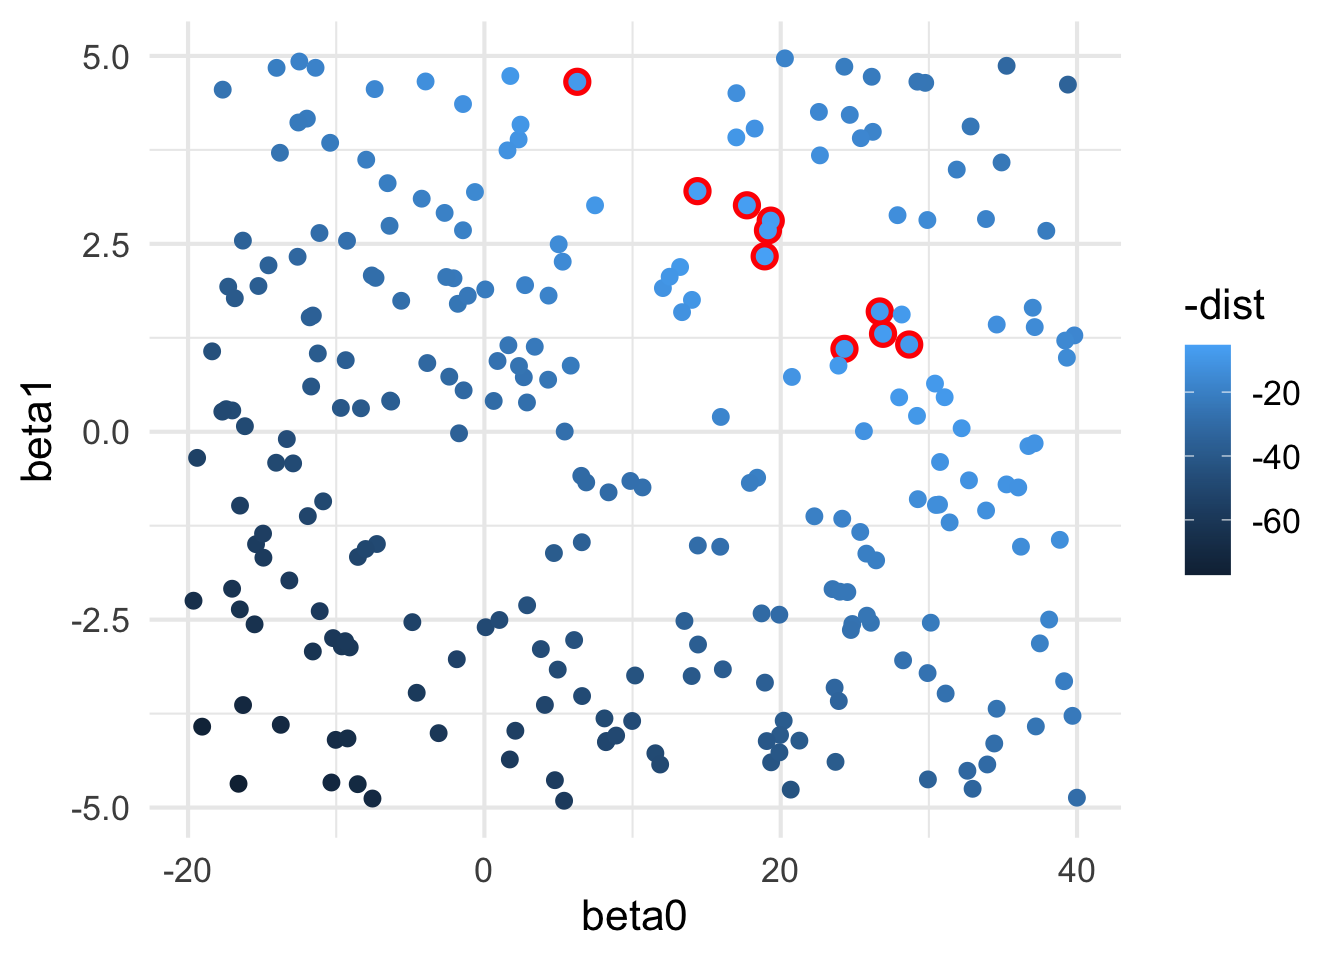
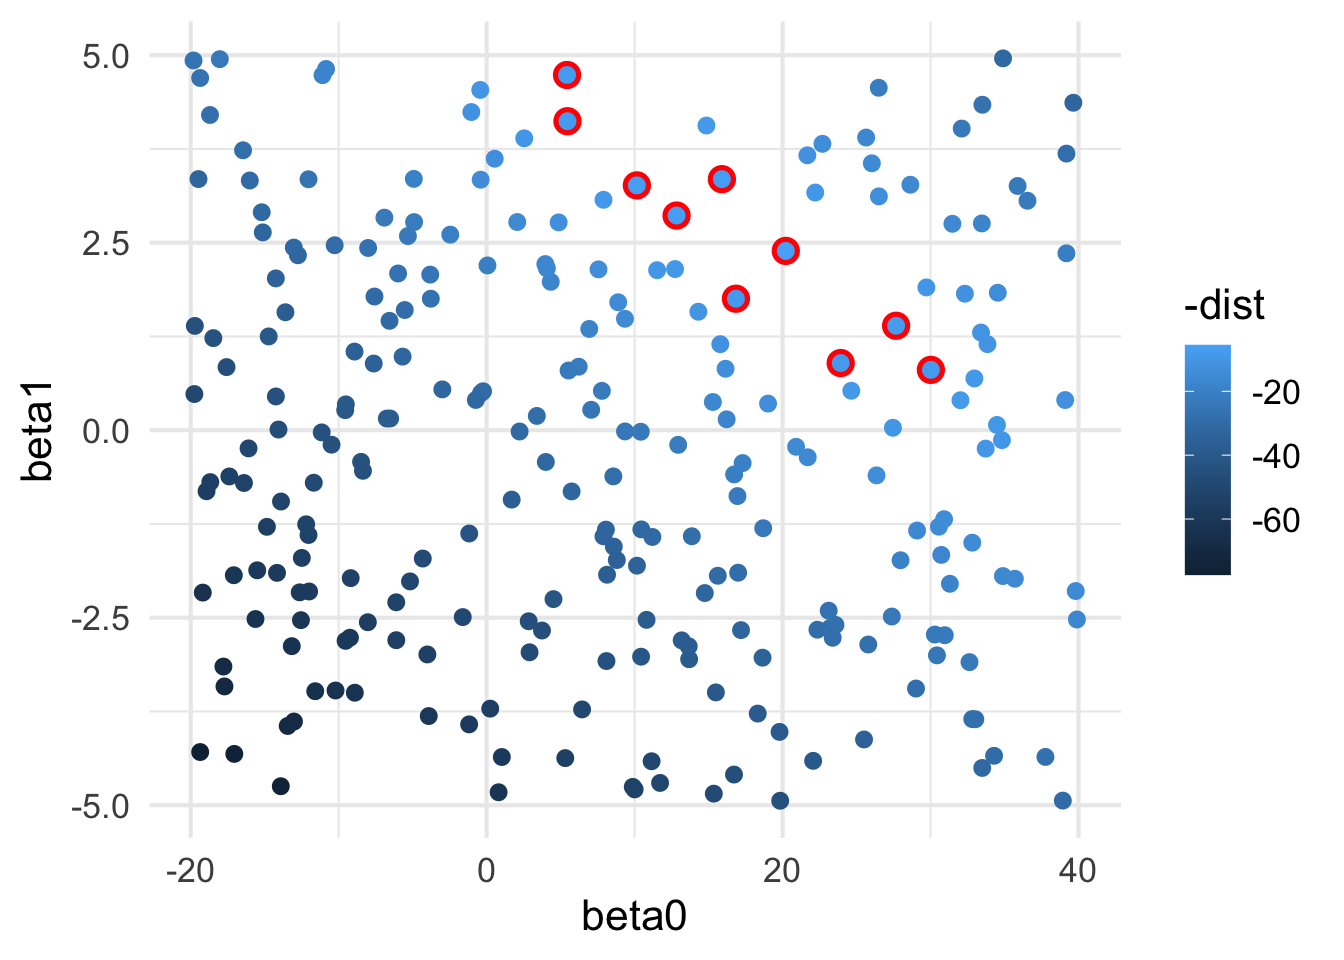
built for latest content

diff --git a/docs/narrative.html b/docs/narrative.html
@@ -183,12 +183,12 @@ y_{ij} = \beta_0 + \beta_1 x_{i} + \epsilon_j
 <span id="cb3-3"><a href="#cb3-3" aria-hidden="true" tabindex="-1"></a><span class="fu">summary</span>( models )</span></code></pre></div><button title="Copy to Clipboard" class="code-copy-button"><i class="bi"></i></button></div>
 <div class="cell-output cell-output-stdout">
 <pre><code>     beta0             beta1        
- Min.   :-19.632   Min.   :-4.9090  
- 1st Qu.: -7.390   1st Qu.:-2.6282  
- Median :  7.787   Median :-0.1255  
- Mean   :  9.506   Mean   :-0.1893  
- 3rd Qu.: 25.397   3rd Qu.: 2.0458  
- Max.   : 39.990   Max.   : 4.9674  </code></pre>
+ Min.   :-19.810   Min.   :-4.9405  
+ 1st Qu.: -8.454   1st Qu.:-2.5273  
+ Median :  7.313   Median :-0.2439  
+ Mean   :  7.525   Mean   :-0.2425  
+ 3rd Qu.: 22.319   3rd Qu.: 2.0126  
+ Max.   : 39.891   Max.   : 4.9577  </code></pre>
 </div>
 </div>
 <p>We can plot these and the original data and all these randomly defined models.</p>
@@ -239,13 +239,13 @@ y_{ij} = \beta_0 + \beta_1 x_{i} + \epsilon_j
 <span id="cb7-7"><a href="#cb7-7" aria-hidden="true" tabindex="-1"></a>}</span>
 <span id="cb7-8"><a href="#cb7-8" aria-hidden="true" tabindex="-1"></a><span class="fu">head</span>( models )</span></code></pre></div><button title="Copy to Clipboard" class="code-copy-button"><i class="bi"></i></button></div>
 <div class="cell-output cell-output-stdout">
-<pre><code>        beta0      beta1      dist
-1  15.9563821  0.1970038 17.076792
-2  26.2156889  3.9900951 17.695627
-3  14.3826825  3.2011704  5.501376
-4  29.2525639 -0.8971011 13.587113
-5   0.8865457  0.9412975 26.629027
-6 -17.2903396  1.9302836 38.801127</code></pre>
+<pre><code>      beta0       beta1      dist
+1 -16.09063 -0.24246791 50.104561
+2 -11.14741 -0.02929899 44.012023
+3 -15.50407 -1.86794924 59.161027
+4  30.96283 -2.73346555 22.665939
+5  33.02548 -3.85426219 27.741279
+6  27.45738  0.03260307  9.979749</code></pre>
 </div>
 </div>
 <p>If we look through these models, we can see which are better than others by sorting in increasing squared distance.</p>
@@ -862,42 +862,42 @@ y = \beta_0 + \beta_1 x_1 + \beta_2 x_2 + \beta_3 x_3 + \epsilon
 </tr>
 <tr class="even">
 <td style="text-align: left;">Ozone ~ Temp + Wind + Solar + 1 Random Variables</td>
-<td style="text-align: right;">0.6066</td>
+<td style="text-align: right;">0.6143</td>
 <td style="text-align: right;">0e+00</td>
 </tr>
 <tr class="odd">
 <td style="text-align: left;">Ozone ~ Temp + Wind + Solar + 2 Random Variables</td>
-<td style="text-align: right;">0.6066</td>
+<td style="text-align: right;">0.6153</td>
 <td style="text-align: right;">0e+00</td>
 </tr>
 <tr class="even">
 <td style="text-align: left;">Ozone ~ Temp + Wind + Solar + 3 Random Variables</td>
-<td style="text-align: right;">0.6131</td>
+<td style="text-align: right;">0.6250</td>
 <td style="text-align: right;">0e+00</td>
 </tr>
 <tr class="odd">
 <td style="text-align: left;">Ozone ~ Temp + Wind + Solar + 4 Random Variables</td>
-<td style="text-align: right;">0.6175</td>
+<td style="text-align: right;">0.6254</td>
 <td style="text-align: right;">0e+00</td>
 </tr>
 <tr class="even">
 <td style="text-align: left;">Ozone ~ Temp + Wind + Solar + 5 Random Variables</td>
-<td style="text-align: right;">0.6178</td>
+<td style="text-align: right;">0.6271</td>
 <td style="text-align: right;">0e+00</td>
 </tr>
 <tr class="odd">
 <td style="text-align: left;">Ozone ~ Temp + Wind + Solar + 6 Random Variables</td>
-<td style="text-align: right;">0.6180</td>
+<td style="text-align: right;">0.6337</td>
 <td style="text-align: right;">0e+00</td>
 </tr>
 <tr class="even">
 <td style="text-align: left;">Ozone ~ Temp + Wind + Solar + 7 Random Variables</td>
-<td style="text-align: right;">0.6189</td>
+<td style="text-align: right;">0.6366</td>
 <td style="text-align: right;">0e+00</td>
 </tr>
 <tr class="odd">
 <td style="text-align: left;">Ozone ~ Temp + Wind + Solar + 8 Random Variables</td>
-<td style="text-align: right;">0.6189</td>
+<td style="text-align: right;">0.6371</td>
 <td style="text-align: right;">0e+00</td>
 </tr>
 </tbody>
@@ -950,91 +950,91 @@ AIC = -2 \ln L + 2p
 <td style="text-align: left;">Ozone ~ Temp</td>
 <td style="text-align: right;">0.488</td>
 <td style="text-align: right;">1067.706</td>
-<td style="text-align: right;">68.989</td>
+<td style="text-align: right;">69.395</td>
 </tr>
 <tr class="even">
 <td style="text-align: left;">Ozone ~ Wind</td>
 <td style="text-align: right;">0.362</td>
 <td style="text-align: right;">1093.187</td>
-<td style="text-align: right;">94.470</td>
+<td style="text-align: right;">94.876</td>
 </tr>
 <tr class="odd">
 <td style="text-align: left;">Ozone ~ Solar</td>
 <td style="text-align: right;">0.121</td>
 <td style="text-align: right;">1083.714</td>
-<td style="text-align: right;">84.997</td>
+<td style="text-align: right;">85.403</td>
 </tr>
 <tr class="even">
 <td style="text-align: left;">Ozone ~ Temp + Wind</td>
 <td style="text-align: right;">0.569</td>
 <td style="text-align: right;">1049.741</td>
-<td style="text-align: right;">51.024</td>
+<td style="text-align: right;">51.430</td>
 </tr>
 <tr class="odd">
 <td style="text-align: left;">Ozone ~ Temp + Solar</td>
 <td style="text-align: right;">0.510</td>
 <td style="text-align: right;">1020.820</td>
-<td style="text-align: right;">22.103</td>
+<td style="text-align: right;">22.508</td>
 </tr>
 <tr class="even">
 <td style="text-align: left;">Ozone ~ Wind + Solar</td>
 <td style="text-align: right;">0.449</td>
 <td style="text-align: right;">1033.816</td>
-<td style="text-align: right;">35.098</td>
+<td style="text-align: right;">35.504</td>
 </tr>
 <tr class="odd">
 <td style="text-align: left;">Ozone ~ Temp + Wind + Solar</td>
 <td style="text-align: right;">0.606</td>
 <td style="text-align: right;">998.717</td>
-<td style="text-align: right;">0.000</td>
+<td style="text-align: right;">0.406</td>
 </tr>
 <tr class="even">
 <td style="text-align: left;">Ozone ~ Temp + Wind + Solar + 1 Random Variables</td>
-<td style="text-align: right;">0.607</td>
-<td style="text-align: right;">1000.507</td>
-<td style="text-align: right;">1.790</td>
+<td style="text-align: right;">0.614</td>
+<td style="text-align: right;">998.311</td>
+<td style="text-align: right;">0.000</td>
 </tr>
 <tr class="odd">
 <td style="text-align: left;">Ozone ~ Temp + Wind + Solar + 2 Random Variables</td>
-<td style="text-align: right;">0.607</td>
-<td style="text-align: right;">1002.505</td>
-<td style="text-align: right;">3.787</td>
+<td style="text-align: right;">0.615</td>
+<td style="text-align: right;">1000.028</td>
+<td style="text-align: right;">1.717</td>
 </tr>
 <tr class="even">
 <td style="text-align: left;">Ozone ~ Temp + Wind + Solar + 3 Random Variables</td>
-<td style="text-align: right;">0.613</td>
-<td style="text-align: right;">1002.681</td>
-<td style="text-align: right;">3.964</td>
+<td style="text-align: right;">0.625</td>
+<td style="text-align: right;">999.188</td>
+<td style="text-align: right;">0.876</td>
 </tr>
 <tr class="odd">
 <td style="text-align: left;">Ozone ~ Temp + Wind + Solar + 4 Random Variables</td>
-<td style="text-align: right;">0.618</td>
-<td style="text-align: right;">1003.390</td>
-<td style="text-align: right;">4.673</td>
+<td style="text-align: right;">0.625</td>
+<td style="text-align: right;">1001.082</td>
+<td style="text-align: right;">2.771</td>
 </tr>
 <tr class="even">
 <td style="text-align: left;">Ozone ~ Temp + Wind + Solar + 5 Random Variables</td>
-<td style="text-align: right;">0.618</td>
-<td style="text-align: right;">1005.326</td>
-<td style="text-align: right;">6.608</td>
+<td style="text-align: right;">0.627</td>
+<td style="text-align: right;">1002.569</td>
+<td style="text-align: right;">4.257</td>
 </tr>
 <tr class="odd">
 <td style="text-align: left;">Ozone ~ Temp + Wind + Solar + 6 Random Variables</td>
-<td style="text-align: right;">0.618</td>
-<td style="text-align: right;">1007.240</td>
-<td style="text-align: right;">8.523</td>
+<td style="text-align: right;">0.634</td>
+<td style="text-align: right;">1002.603</td>
+<td style="text-align: right;">4.292</td>
 </tr>
 <tr class="even">
 <td style="text-align: left;">Ozone ~ Temp + Wind + Solar + 7 Random Variables</td>
-<td style="text-align: right;">0.619</td>
-<td style="text-align: right;">1009.006</td>
-<td style="text-align: right;">10.289</td>
+<td style="text-align: right;">0.637</td>
+<td style="text-align: right;">1003.704</td>
+<td style="text-align: right;">5.393</td>
 </tr>
 <tr class="odd">
 <td style="text-align: left;">Ozone ~ Temp + Wind + Solar + 8 Random Variables</td>
-<td style="text-align: right;">0.619</td>
-<td style="text-align: right;">1011.004</td>
-<td style="text-align: right;">12.287</td>
+<td style="text-align: right;">0.637</td>
+<td style="text-align: right;">1005.573</td>
+<td style="text-align: right;">7.262</td>
 </tr>
 </tbody>
 </table>

diff --git a/docs/slides.html b/docs/slides.html
@@ -241,13 +241,13 @@ y = \beta_0 + \beta_1 x_1 + \epsilon
 <span id="cb1-2"><a href=""></a>                      <span class="at">beta1 =</span> <span class="fu">runif</span>(<span class="dv">250</span>, <span class="sc">-</span><span class="dv">5</span>, <span class="dv">5</span>))</span>
 <span id="cb1-3"><a href=""></a><span class="fu">summary</span>( models )</span></code></pre></div><button title="Copy to Clipboard" class="code-copy-button"><i class="bi"></i></button></div>
 <div class="cell-output cell-output-stdout">
-<pre><code>     beta0             beta1         
- Min.   :-19.796   Min.   :-4.95994  
- 1st Qu.: -7.777   1st Qu.:-2.21131  
- Median :  6.301   Median : 0.07079  
- Mean   :  8.441   Mean   : 0.11166  
- 3rd Qu.: 24.426   3rd Qu.: 2.46060  
- Max.   : 39.958   Max.   : 4.95395  </code></pre>
+<pre><code>     beta0             beta1        
+ Min.   :-19.598   Min.   :-4.9365  
+ 1st Qu.: -4.274   1st Qu.:-2.5385  
+ Median : 10.611   Median :-0.2273  
+ Mean   :  9.573   Mean   :-0.1091  
+ 3rd Qu.: 21.650   3rd Qu.: 2.4200  
+ Max.   : 39.864   Max.   : 4.9770  </code></pre>
 </div>
 </div>
 </div><div class="column" style="width:50%;">
@@ -290,13 +290,13 @@ y = \beta_0 + \beta_1 x_1 + \epsilon
 <span id="cb4-7"><a href=""></a>}</span>
 <span id="cb4-8"><a href=""></a><span class="fu">head</span>( models )</span></code></pre></div><button title="Copy to Clipboard" class="code-copy-button"><i class="bi"></i></button></div>
 <div class="cell-output cell-output-stdout">
-<pre><code>      beta0     beta1     dist
-1 -7.375588  4.651977 15.61575
-2  4.200233 -1.959842 40.83772
-3  8.387190 -1.718626 35.46853
-4  2.017924 -4.619716 59.14127
-5 -9.781472 -2.529774 57.59827
-6 36.261688 -1.168502 12.23777</code></pre>
+<pre><code>       beta0      beta1     dist
+1 28.7849851 -2.3686944 22.09158
+2 15.1029467  0.5388660 15.80474
+3 -2.7209410  3.2435006 17.49930
+4 20.6735662  3.7980586 11.64837
+5 26.9316197 -0.7176156 13.99879
+6  0.4951626  0.5963720 29.02303</code></pre>
 </div>
 </div>
 </section>
@@ -388,7 +388,7 @@ y = \beta_0 + \beta_1 x_1 + \epsilon
 <section id="section" class="slide level2">
 <h2>&nbsp;</h2>
 
-<img data-src="https://live.staticflickr.com/65535/50588297022_62f043a616_c_d.jpg" class="r-stretch"></section>
+<img data-src="media/flickr_50588297022.jpg" class="r-stretch"></section>
 <section id="specifying-a-formula" class="slide level2">
 <h2>Specifying a Formula</h2>
 <p>For <code>R</code> to perform these analyses for us, we need to be able to specify the <em>function</em> that we will use to represent the data (just like we did for <code>plot(y~x)</code>). Assuming the predictor is named <code>x</code> and the response is <code>y</code>, we have:</p>
@@ -917,35 +917,35 @@ y = \beta_0 + \beta_1 x_1 + \epsilon
 <tbody>
 <tr class="odd">
 <td style="text-align: left;">Ozone ~ Temp + Wind + Solar + 1 Random Variables</td>
-<td style="text-align: left;">0.6062</td>
+<td style="text-align: left;">0.6059</td>
 </tr>
 <tr class="even">
 <td style="text-align: left;">Ozone ~ Temp + Wind + Solar + 2 Random Variables</td>
-<td style="text-align: left;">0.6143</td>
+<td style="text-align: left;">0.6075</td>
 </tr>
 <tr class="odd">
 <td style="text-align: left;">Ozone ~ Temp + Wind + Solar + 3 Random Variables</td>
-<td style="text-align: left;">0.6208</td>
+<td style="text-align: left;">0.6081</td>
 </tr>
 <tr class="even">
 <td style="text-align: left;">Ozone ~ Temp + Wind + Solar + 4 Random Variables</td>
-<td style="text-align: left;">0.6296</td>
+<td style="text-align: left;">0.6255</td>
 </tr>
 <tr class="odd">
 <td style="text-align: left;">Ozone ~ Temp + Wind + Solar + 5 Random Variables</td>
-<td style="text-align: left;">0.6337</td>
+<td style="text-align: left;">0.6255</td>
 </tr>
 <tr class="even">
 <td style="text-align: left;">Ozone ~ Temp + Wind + Solar + 6 Random Variables</td>
-<td style="text-align: left;">0.6354</td>
+<td style="text-align: left;">0.6258</td>
 </tr>
 <tr class="odd">
 <td style="text-align: left;">Ozone ~ Temp + Wind + Solar + 7 Random Variables</td>
-<td style="text-align: left;">0.6354</td>
+<td style="text-align: left;">0.6283</td>
 </tr>
 <tr class="even">
 <td style="text-align: left;">Ozone ~ Temp + Wind + Solar + 8 Random Variables</td>
-<td style="text-align: left;">0.6404</td>
+<td style="text-align: left;">0.6330</td>
 </tr>
 </tbody>
 </table>
@@ -1036,50 +1036,50 @@ y = \beta_0 + \beta_1 x_1 + \epsilon
 <tr class="even">
 <td style="text-align: left;">Ozone ~ Temp + Wind + Solar + 1 Random Variables</td>
 <td style="text-align: right;">0.606</td>
-<td style="text-align: right;">1000.618</td>
-<td style="text-align: right;">1.901</td>
+<td style="text-align: right;">1000.708</td>
+<td style="text-align: right;">1.991</td>
 </tr>
 <tr class="odd">
 <td style="text-align: left;">Ozone ~ Temp + Wind + Solar + 2 Random Variables</td>
-<td style="text-align: right;">0.614</td>
-<td style="text-align: right;">1000.338</td>
-<td style="text-align: right;">1.621</td>
+<td style="text-align: right;">0.607</td>
+<td style="text-align: right;">1002.276</td>
+<td style="text-align: right;">3.559</td>
 </tr>
 <tr class="even">
 <td style="text-align: left;">Ozone ~ Temp + Wind + Solar + 3 Random Variables</td>
-<td style="text-align: right;">0.621</td>
-<td style="text-align: right;">1000.436</td>
-<td style="text-align: right;">1.719</td>
+<td style="text-align: right;">0.608</td>
+<td style="text-align: right;">1004.095</td>
+<td style="text-align: right;">5.378</td>
 </tr>
 <tr class="odd">
 <td style="text-align: left;">Ozone ~ Temp + Wind + Solar + 4 Random Variables</td>
-<td style="text-align: right;">0.630</td>
-<td style="text-align: right;">999.833</td>
-<td style="text-align: right;">1.116</td>
+<td style="text-align: right;">0.625</td>
+<td style="text-align: right;">1001.063</td>
+<td style="text-align: right;">2.346</td>
 </tr>
 <tr class="even">
 <td style="text-align: left;">Ozone ~ Temp + Wind + Solar + 5 Random Variables</td>
-<td style="text-align: right;">0.634</td>
-<td style="text-align: right;">1000.606</td>
-<td style="text-align: right;">1.889</td>
+<td style="text-align: right;">0.626</td>
+<td style="text-align: right;">1003.047</td>
+<td style="text-align: right;">4.330</td>
 </tr>
 <tr class="odd">
 <td style="text-align: left;">Ozone ~ Temp + Wind + Solar + 6 Random Variables</td>
-<td style="text-align: right;">0.635</td>
-<td style="text-align: right;">1002.094</td>
-<td style="text-align: right;">3.377</td>
+<td style="text-align: right;">0.626</td>
+<td style="text-align: right;">1004.963</td>
+<td style="text-align: right;">6.246</td>
 </tr>
 <tr class="even">
 <td style="text-align: left;">Ozone ~ Temp + Wind + Solar + 7 Random Variables</td>
-<td style="text-align: right;">0.635</td>
-<td style="text-align: right;">1004.086</td>
-<td style="text-align: right;">5.369</td>
+<td style="text-align: right;">0.628</td>
+<td style="text-align: right;">1006.219</td>
+<td style="text-align: right;">7.502</td>
 </tr>
 <tr class="odd">
 <td style="text-align: left;">Ozone ~ Temp + Wind + Solar + 8 Random Variables</td>
-<td style="text-align: right;">0.640</td>
-<td style="text-align: right;">1004.536</td>
-<td style="text-align: right;">5.819</td>
+<td style="text-align: right;">0.633</td>
+<td style="text-align: right;">1006.815</td>
+<td style="text-align: right;">8.098</td>
 </tr>
 </tbody>
 </table>
